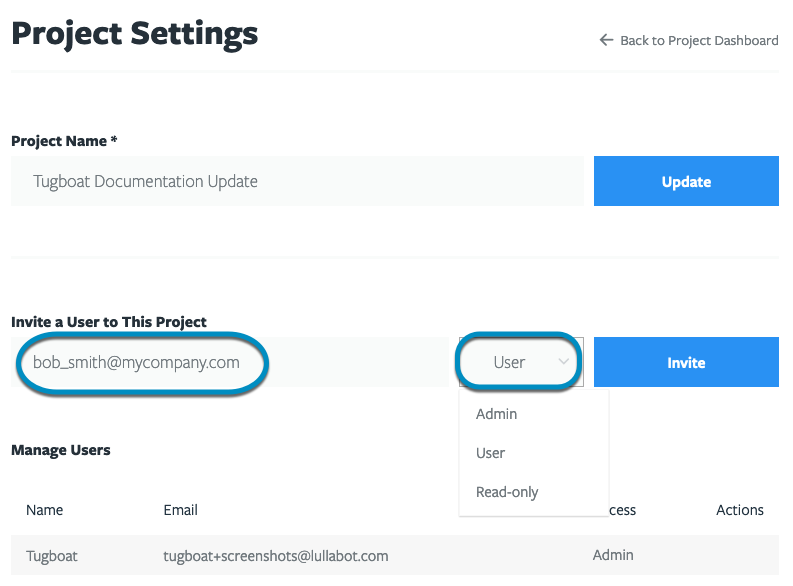
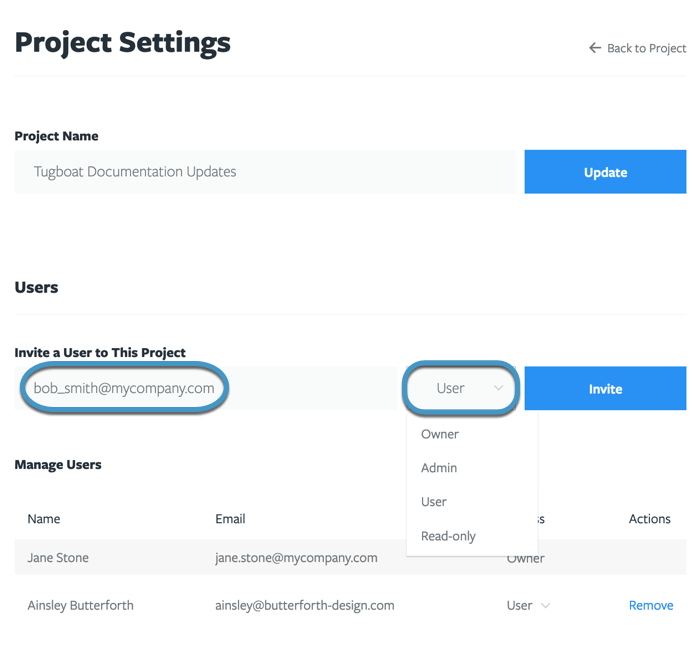
Update docs for Owner user permissions

diff --git a/content/administer-tugboat-crew/change-permissions.md b/content/administer-tugboat-crew/change-permissions.md
@@ -10,8 +10,11 @@ weight: 3
 2. Select the project where you want to change user permissions.
 3. Click the {{% ui-text %}}Project Settings{{% /ui-text %}} link to the right of the project's title.
 4. In the {{% ui-text %}}Manage Users{{% /ui-text %}} section, look for the user whose permissions you want to change,
-   and select the appropriate [user type](#user-permission-levels-explained) from the
-   {{% ui-text %}}Access{{% /ui-text %}} drop-down.
+   and select the appropriate [user type](../user-admin/) from the {{% ui-text %}}Access{{% /ui-text %}} drop-down.
+
+{{% notice info %}} You can't downgrade an [Owner user's permissions](../user-admin/#owner-permissions) without first
+[giving another user Owner permissions](../change-permissions/). Only Owner users can give or remove Owner user
+permissions.{{% /notice %}}
 
 {{%expand "Visual Walkthrough" %}}
 
@@ -28,8 +31,7 @@ Click the {{% ui-text %}}Project Settings{{% /ui-text %}} link to the right of t
 ![Click Project Settings](../../_images/click-project-settings-link.png)
 
 In the {{% ui-text %}}Manage Users{{% /ui-text %}} section, look for the user whose permissions you want to change, and
-select the appropriate [user type](#user-permission-levels-explained) from the {{% ui-text %}}Access{{% /ui-text %}}
-drop-down.
+select the appropriate [user type](../user-admin/) from the {{% ui-text %}}Access{{% /ui-text %}} drop-down.
 
 ![Go to Manage Users, click the Access drop-down and select new permissions](../../_images/change-user-permissions-access-drop-down.png)
 

diff --git a/content/administer-tugboat-crew/user-admin.md b/content/administer-tugboat-crew/user-admin.md
@@ -6,27 +6,38 @@ weight: 4
 
 ### User permission levels explained
 
-Tugboat has three different types of users:
+Tugboat has four different types of users:
 
+- [Owner](#owner-permissions)
 - [Admin](#admin-permissions)
 - [User](#user-permissions)
 - [Read-only](#read-only-permissions)
+
+#### Owner permissions
+
+Owner users can:
+
+- Manage billing information. This information is disabled if the company is paying with a purchase order.
+
+Owners can also do everything the [admin user](#admin-permissions) and [general user](#user-permissions) can do.
 
 #### Admin permissions
 
 Admin users can:
 
-- Manage billing information. This information is disabled if the company is paying with a purchase order.
-- Manage other users, including removing other admins, though they cannot remove themselves.
+- Add and remove users from a project, and change user permissions. Admin users can administer other admin users, though
+  they cannot remove themselves from a project.
 - Add repositories to the project.
 - Change repository settings.
 - Delete repositories.
 - Delete the entire project.
 - Rename the project.
 
+Admin can also do everything the [general user](#user-permissions) can do.
+
 #### User permissions
 
-Tugboat's generic User's permissions include:
+Tugboat's general User's permissions include:
 
 - Manage the repository configuration interface. This includes things like
   [changing repository settings](/setting-up-tugboat/select-repo-settings/#change-repository-settings), environment

diff --git a/content/administer-tugboat-crew/add-a-user.md b/content/administer-tugboat-crew/add-a-user.md
@@ -10,7 +10,7 @@ weight: 1
 2. Select the project where you want to add the user.
 3. Click the {{% ui-text %}}Project Settings{{% /ui-text %}} link to the right of the project's title.
 4. In the {{% ui-text %}}Invite a User to This Project{{% /ui-text %}} section, add the recipient's email address, and
-   select the appropriate [user type](#user-permission-levels-explained) from the drop-down.
+   select the appropriate [user type](../user-admin/) from the drop-down.
 5. Press the big blue {{% ui-text %}}Invite{{% /ui-text %}} button!
 
 The user you've invited will get an email from `support@tugboat.qa` with a link to accept the invitation.
@@ -35,7 +35,7 @@ Click the {{% ui-text %}}Project Settings{{% /ui-text %}} link to the right of t
 ![Click Project Settings](../../_images/click-project-settings-link.png)
 
 In the {{% ui-text %}}Invite a User to This Project{{% /ui-text %}} section, add the recipient's email address, and
-select the appropriate [user type](#user-permission-levels-explained) from the drop-down.
+select the appropriate [user type](../user-admin/) from the drop-down.
 
 ![Add user's email address and select permissions](../../_images/add-user-email-and-permissions.png)
 

diff --git a/content/administer-tugboat-crew/remove-a-user.md b/content/administer-tugboat-crew/remove-a-user.md
@@ -12,6 +12,9 @@ weight: 2
 4. In the {{% ui-text %}}Manage Users{{% /ui-text %}} section, look for the user you want to remove, and click the
    Remove link.
 
+{{% notice info %}} An [Owner user](../user-admin/#owner-permissions) cannot be removed from a Tugboat project without
+first [giving another user Owner permissions](../change-permissions/). {{% /notice %}}
+
 {{%expand "Visual Walkthrough" %}}
 
 Go to username -> [My Projects](https://dashboard.tugboat.qa/projects) at the upper-right of the Tugboat screen.
